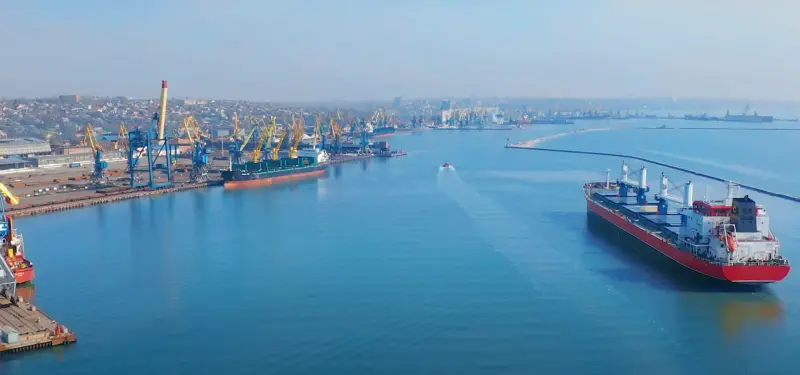
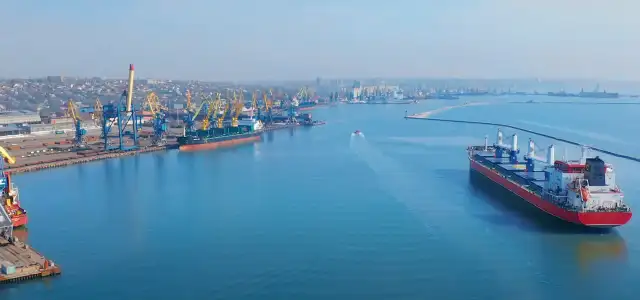
Speed up mobile LCP by isolating the hero image from below-fold downloads.
Use a high-priority absolute hero poster (~11KB), strip eager portfolio/CTA background fetches, and lazy-load data-background images when they near the viewport.

diff --git a/public/assets/js/perf-lazy.js b/public/assets/js/perf-lazy.js
@@ -1,5 +1,5 @@
 /**
- * Performance helpers: lazy images + delayed hero video (after LCP).
+ * Performance helpers: lazy images/backgrounds + delayed hero video (after LCP).
  * Mobile uses a smaller MP4 and longer idle delay to cut TBT/LCP contention.
  */
 (function () {
@@ -21,6 +21,36 @@
       }
       img.setAttribute('loading', 'lazy');
       img.setAttribute('decoding', 'async');
+    }
+  }
+
+  /** Defer [data-background] until near viewport — frees bandwidth for LCP */
+  function lazyBackgrounds() {
+    var nodes = document.querySelectorAll('[data-background]');
+    if (!nodes.length) return;
+
+    function apply(el) {
+      var url = el.getAttribute('data-background');
+      if (!url || el.getAttribute('data-mc-bg-loaded')) return;
+      el.setAttribute('data-mc-bg-loaded', '1');
+      el.style.backgroundImage = 'url("' + url + '")';
+    }
+
+    if ('IntersectionObserver' in window) {
+      var io = new IntersectionObserver(function (entries) {
+        for (var i = 0; i < entries.length; i++) {
+          if (!entries[i].isIntersecting) continue;
+          apply(entries[i].target);
+          io.unobserve(entries[i].target);
+        }
+      }, { rootMargin: '180px 0px', threshold: 0.01 });
+      for (var j = 0; j < nodes.length; j++) io.observe(nodes[j]);
+    } else {
+      var run = function () {
+        for (var k = 0; k < nodes.length; k++) apply(nodes[k]);
+      };
+      if (document.readyState === 'complete') run();
+      else window.addEventListener('load', run);
     }
   }
 
@@ -82,6 +112,7 @@
 
   function boot() {
     enhanceImages();
+    lazyBackgrounds();
     loadHeroVideo();
   }
 

diff --git a/resources/views/pages/home.blade.php b/resources/views/pages/home.blade.php
@@ -11,19 +11,20 @@
 <!-- BANNER
         ================================================== -->
         <section class="p-0 top-position1 full-screen secondary-overlay video-banner mc-hero" data-overlay-dark="8">
-            {{-- CSS background only — <img>/picture caused mobile CLS ~0.6 --}}
-            <style>
-                .mc-hero {
-                    background-image: url('{{ theme_asset('assets/img/banner/video-cover-mobile.webp') }}');
-                }
-                @media (min-width: 992px) {
-                    .mc-hero {
-                        background-image: url('{{ theme_webp('assets/img/banner/video-cover.jpg') }}');
-                    }
-                }
-            </style>
+            {{-- Real LCP image; inline absolute styles keep it out of document flow (CLS-safe) --}}
+            <picture class="mc-hero-lcp" aria-hidden="true" style="position:absolute;inset:0;z-index:0;display:block;width:100%;height:100%;pointer-events:none;margin:0;padding:0;border:0">
+                <source media="(min-width: 992px)" srcset="{{ theme_webp('assets/img/banner/video-cover.jpg') }}" type="image/webp">
+                <img
+                    src="{{ theme_asset('assets/img/banner/video-cover-mobile.webp') }}?v=lcp4"
+                    alt=""
+                    width="640"
+                    height="300"
+                    fetchpriority="high"
+                    decoding="async"
+                    style="position:absolute;inset:0;width:100%;height:100%;max-width:none;object-fit:cover;border:0;margin:0;padding:0"
+                >
+            </picture>
             <div class="banner-video" aria-hidden="true">
-                {{-- No poster attr — avoids a second fetch; CSS background + preload is the LCP image --}}
                 <video muted loop playsinline webkit-playsinline preload="none" data-mc-hero-video data-mc-hero-src="{{ theme_asset('assets/video/hero-banner.mp4') }}?v=sharp2" data-mc-hero-src-mobile="{{ theme_asset('assets/video/hero-banner-mobile.mp4') }}?v=m1"></video>
             </div>
             <div class="container d-flex flex-column pt-5 pb-2 py-sm-8 py-md-0 position-relative z-index-9">
@@ -217,7 +218,7 @@
                 <div class="row g-0 portfolio-gallery wow fadeInUp" data-wow-delay="200ms">
                     <div class="col-sm-6 col-lg-3" data-src="{{ theme_webp('assets/img/portfolio/ship-spares-air.jpg') }}" data-sub-html="&lt;h4 class=&#39;text-white&#39;&gt;&lt;a href=&#39;portfolio-details.html&#39; class=&#39;text-white&#39;&gt;Ship Spares Air&lt;/a&gt;&lt;/h4&gt;">
                         <div class="portfolio-box">
-                            <div class="bg-img" data-background="{{ theme_webp('assets/img/portfolio/ship-spares-air.jpg') }}" style="background-image: url(&quot;{{ theme_webp('assets/img/portfolio/ship-spares-air.jpg') }}&quot;);"><img src="{{ theme_webp('assets/img/portfolio/ship-spares-air.jpg') }}" alt="Ship spares air logistics" class="d-none"></div>
+                            <div class="bg-img" data-background="{{ theme_webp('assets/img/portfolio/ship-spares-air.jpg') }}"></div>
                             <div class="content-box">
                                 <h3 class="h3 mb-2"><a href="{{ route('portfolio.details') }}">Ship Spares Air</a></h3>
                                 <p class="text-white opacity7">Time-critical airlift of vessel spares—hand carry, customs, and door-to-deck delivery coordinated 24/7.</p>
@@ -227,7 +228,7 @@
                     </div>
                     <div class="col-sm-6 col-lg-3" data-src="{{ theme_webp('assets/img/portfolio/ocean-freight.jpg') }}" data-sub-html="&lt;h4 class=&#39;text-white&#39;&gt;&lt;a href=&#39;portfolio-details.html&#39; class=&#39;text-white&#39;&gt;Ocean Freight&lt;a/&gt;&lt;/h4&gt;">
                         <div class="portfolio-box">
-                            <div class="bg-img" data-background="{{ theme_webp('assets/img/portfolio/ocean-freight.jpg') }}" style="background-image: url(&quot;{{ theme_webp('assets/img/portfolio/ocean-freight.jpg') }}&quot;);"><img src="{{ theme_webp('assets/img/portfolio/ocean-freight.jpg') }}" alt="Ocean freight logistics at container port" class="d-none"></div>
+                            <div class="bg-img" data-background="{{ theme_webp('assets/img/portfolio/ocean-freight.jpg') }}"></div>
                             <div class="content-box">
                                 <h3 class="h3 mb-2"><a href="{{ route('portfolio.details') }}">Ocean Freight</a></h3>
                                 <p class="text-white opacity7">Maritime freight programs balancing cost, schedule integrity, and customs-ready documentation across global ports.</p>
@@ -237,7 +238,7 @@
                     </div>
                     <div class="col-sm-6 col-lg-3" data-src="{{ theme_webp('assets/img/portfolio/special-projects.jpg') }}" data-sub-html="&lt;h4 class=&#39;text-white&#39;&gt;&lt;a href=&#39;portfolio-details.html&#39; class=&#39;text-white&#39;&gt;Special Projects&lt;/a&gt;&lt;/h4&gt;">
                         <div class="portfolio-box">
-                            <div class="bg-img" data-background="{{ theme_webp('assets/img/portfolio/special-projects.jpg') }}" style="background-image: url(&quot;{{ theme_webp('assets/img/portfolio/special-projects.jpg') }}&quot;);"><img src="{{ theme_webp('assets/img/portfolio/special-projects.jpg') }}" alt="Special projects cargo handling" class="d-none"></div>
+                            <div class="bg-img" data-background="{{ theme_webp('assets/img/portfolio/special-projects.jpg') }}"></div>
                             <div class="content-box">
                                 <h3 class="h3 mb-2"><a href="{{ route('portfolio.details') }}">Special Projects</a></h3>
                                 <p class="text-white opacity7">OOG, dangerous goods, heavy lift, break bulk, and project cargo handled with strict local coordination.</p>
@@ -247,7 +248,7 @@
                     </div>
                     <div class="col-sm-6 col-lg-3" data-src="{{ theme_webp('assets/img/portfolio/hub-warehousing.jpg') }}" data-sub-html="&lt;h4 class=&#39;text-white&#39;&gt;&lt;a href=&#39;portfolio-details.html&#39; class=&#39;text-white&#39;&gt;Hub &amp; Warehousing&lt;/a&gt;&lt;/h4&gt;">
                         <div class="portfolio-box">
-                            <div class="bg-img" data-background="{{ theme_webp('assets/img/portfolio/hub-warehousing.jpg') }}" style="background-image: url(&quot;{{ theme_webp('assets/img/portfolio/hub-warehousing.jpg') }}&quot;);"><img src="{{ theme_webp('assets/img/portfolio/hub-warehousing.jpg') }}" alt="Hub and warehousing operations" class="d-none"></div>
+                            <div class="bg-img" data-background="{{ theme_webp('assets/img/portfolio/hub-warehousing.jpg') }}"></div>
                             <div class="content-box">
                                 <h3 class="h3 mb-2"><a href="{{ route('portfolio.details') }}">Hub &amp; Warehousing</a></h3>
                                 <p class="text-white opacity7">Hub and warehouse nodes supporting stock management, consolidation, and last-mile vessel delivery.</p>
@@ -280,7 +281,7 @@
 
         <!-- TESTIMONIAL
         ================================================== -->
-        <section class="bg-img cover-background secondary-overlay parallax home-section home-section--cta" data-overlay-dark="9" data-background="{{ theme_webp('assets/img/bg/bg-05.jpg') }}" style="background-image: url(&quot;{{ theme_webp('assets/img/bg/bg-05.jpg') }}&quot;);">
+        <section class="bg-img cover-background secondary-overlay parallax home-section home-section--cta" data-overlay-dark="9" data-background="{{ theme_webp('assets/img/bg/bg-05.jpg') }}">
             <div class="container">
                 <div class="row align-items-center mt-n1-9">
                     <div class="col-lg-6 mt-1-9">

diff --git a/resources/views/layouts/app.blade.php b/resources/views/layouts/app.blade.php
@@ -24,19 +24,19 @@
 
     {{-- LCP first: hero poster only (do not compete with fonts). Never block paint on fonts. --}}
     @if(request()->routeIs('home'))
-    <link rel="preload" href="{{ theme_asset('assets/img/banner/video-cover-mobile.webp') }}" as="image" type="image/webp" fetchpriority="high">
+    <link rel="preload" href="{{ theme_asset('assets/img/banner/video-cover-mobile.webp') }}?v=lcp4" as="image" type="image/webp" fetchpriority="high">
     @endif
-    <link rel="preload" href="{{ theme_asset('assets/css/styles.min.css') }}?v=20260825lcp3" as="style">
+    <link rel="preload" href="{{ theme_asset('assets/css/styles.min.css') }}?v=20260825lcp4" as="style">
 
     {{-- Inline layout-critical only (no @font-face — those 404 when inlined via ../fonts) --}}
     <style>{!! file_get_contents(public_path('assets/css/critical.css')) !!}</style>
     {{-- styles.min stays blocking to keep CLS ~0; fonts load async with correct relative URLs --}}
-    <link href="{{ theme_asset('assets/css/styles.min.css') }}?v=20260825lcp3" rel="stylesheet">
-    <link rel="stylesheet" href="{{ theme_asset('assets/css/fonts-local.css') }}?v=20260825lcp3" media="print" onload="this.media='all'">
-    <link rel="stylesheet" href="{{ theme_asset('assets/css/plugins.css') }}?v=20260825lcp3" media="print" onload="this.media='all'">
+    <link href="{{ theme_asset('assets/css/styles.min.css') }}?v=20260825lcp4" rel="stylesheet">
+    <link rel="stylesheet" href="{{ theme_asset('assets/css/fonts-local.css') }}?v=20260825lcp4" media="print" onload="this.media='all'">
+    <link rel="stylesheet" href="{{ theme_asset('assets/css/plugins.css') }}?v=20260825lcp4" media="print" onload="this.media='all'">
     <noscript>
-        <link rel="stylesheet" href="{{ theme_asset('assets/css/fonts-local.css') }}?v=20260825lcp3">
-        <link rel="stylesheet" href="{{ theme_asset('assets/css/plugins.css') }}?v=20260825lcp3">
+        <link rel="stylesheet" href="{{ theme_asset('assets/css/fonts-local.css') }}?v=20260825lcp4">
+        <link rel="stylesheet" href="{{ theme_asset('assets/css/plugins.css') }}?v=20260825lcp4">
     </noscript>
 
     <link rel="stylesheet" href="{{ theme_asset('assets/css/search.css') }}?v=20260823perf1" media="print" onload="this.media='all'">
@@ -71,7 +71,7 @@
     <script src="{{ theme_asset('assets/js/nav-mobile.js') }}?v=20260823perf1" defer></script>
     <script src="{{ theme_asset('assets/js/contact-form.js') }}?v=20260823faq1" defer></script>
     <script src="{{ theme_asset('assets/js/quote-modal.js') }}?v=20260824perf2" defer></script>
-    <script src="{{ theme_asset('assets/js/perf-lazy.js') }}?v=20260825mobtbt1" defer></script>
+    <script src="{{ theme_asset('assets/js/perf-lazy.js') }}?v=20260825lcp4" defer></script>
 
     {{-- After window load — owl/WOW/theme + extras (was blocking mobile TBT ~1.5s) --}}
     <script type="text/plain" data-mc-defer-src="{{ theme_asset('assets/js/core.min.js') }}"></script>
